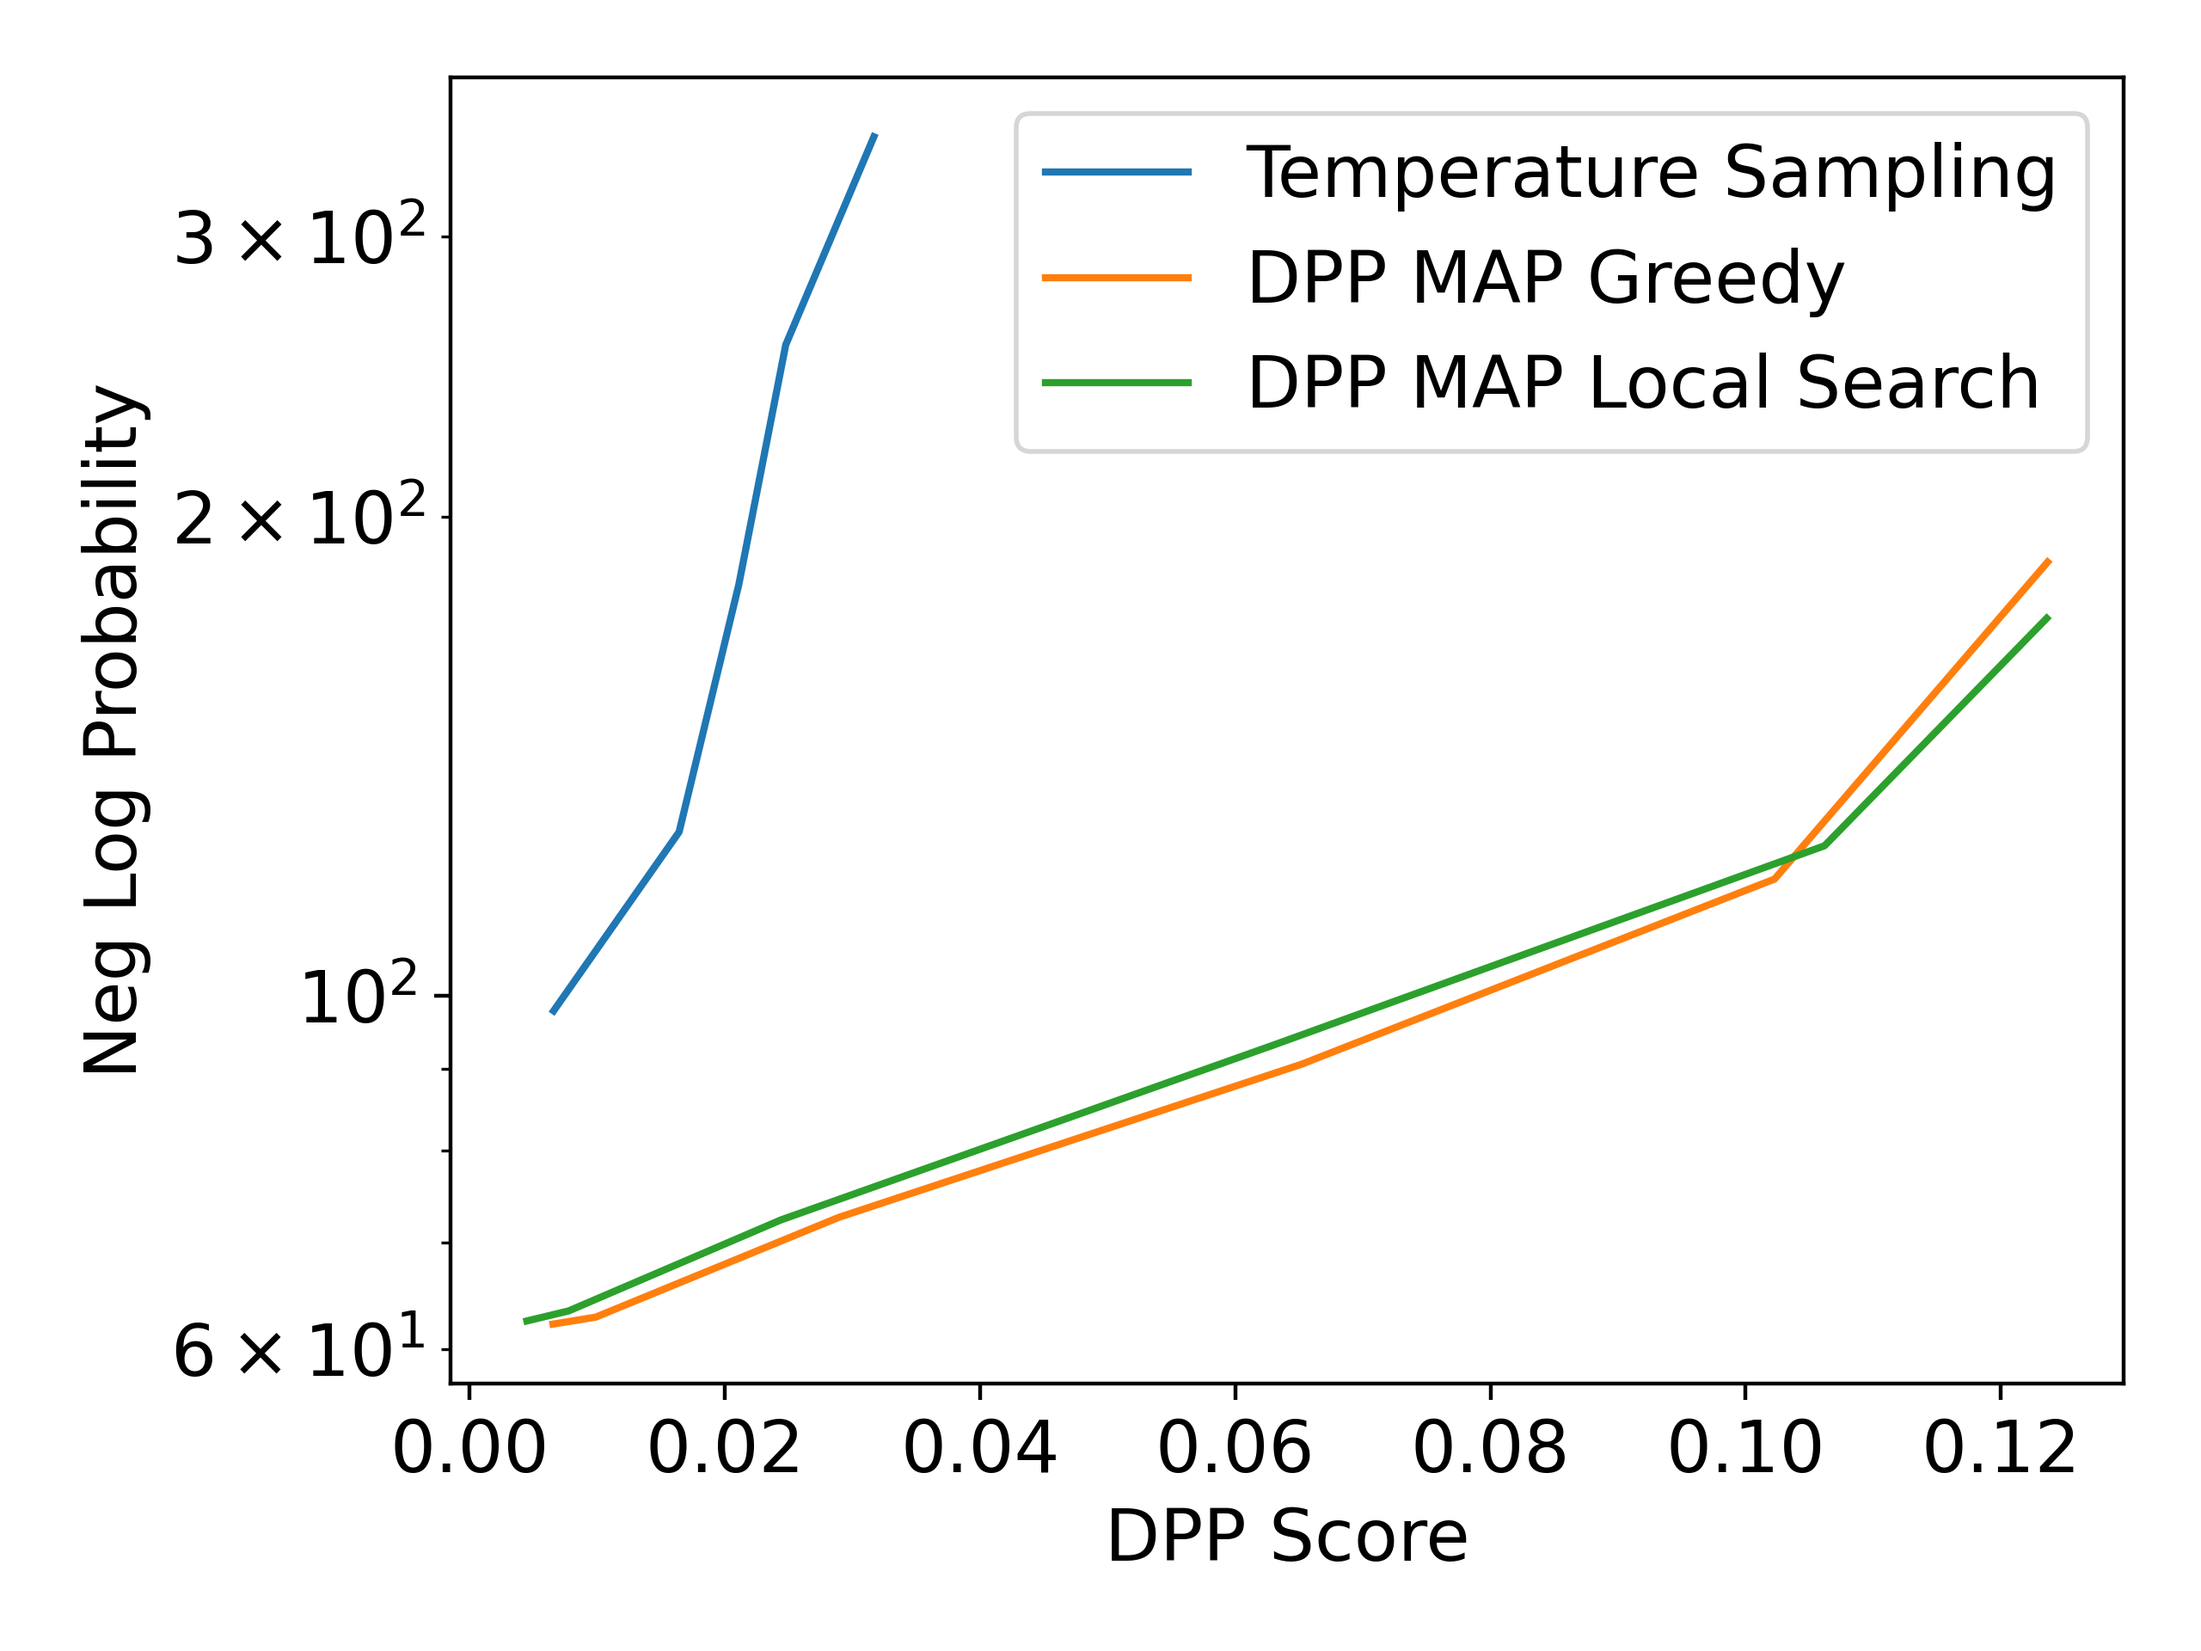
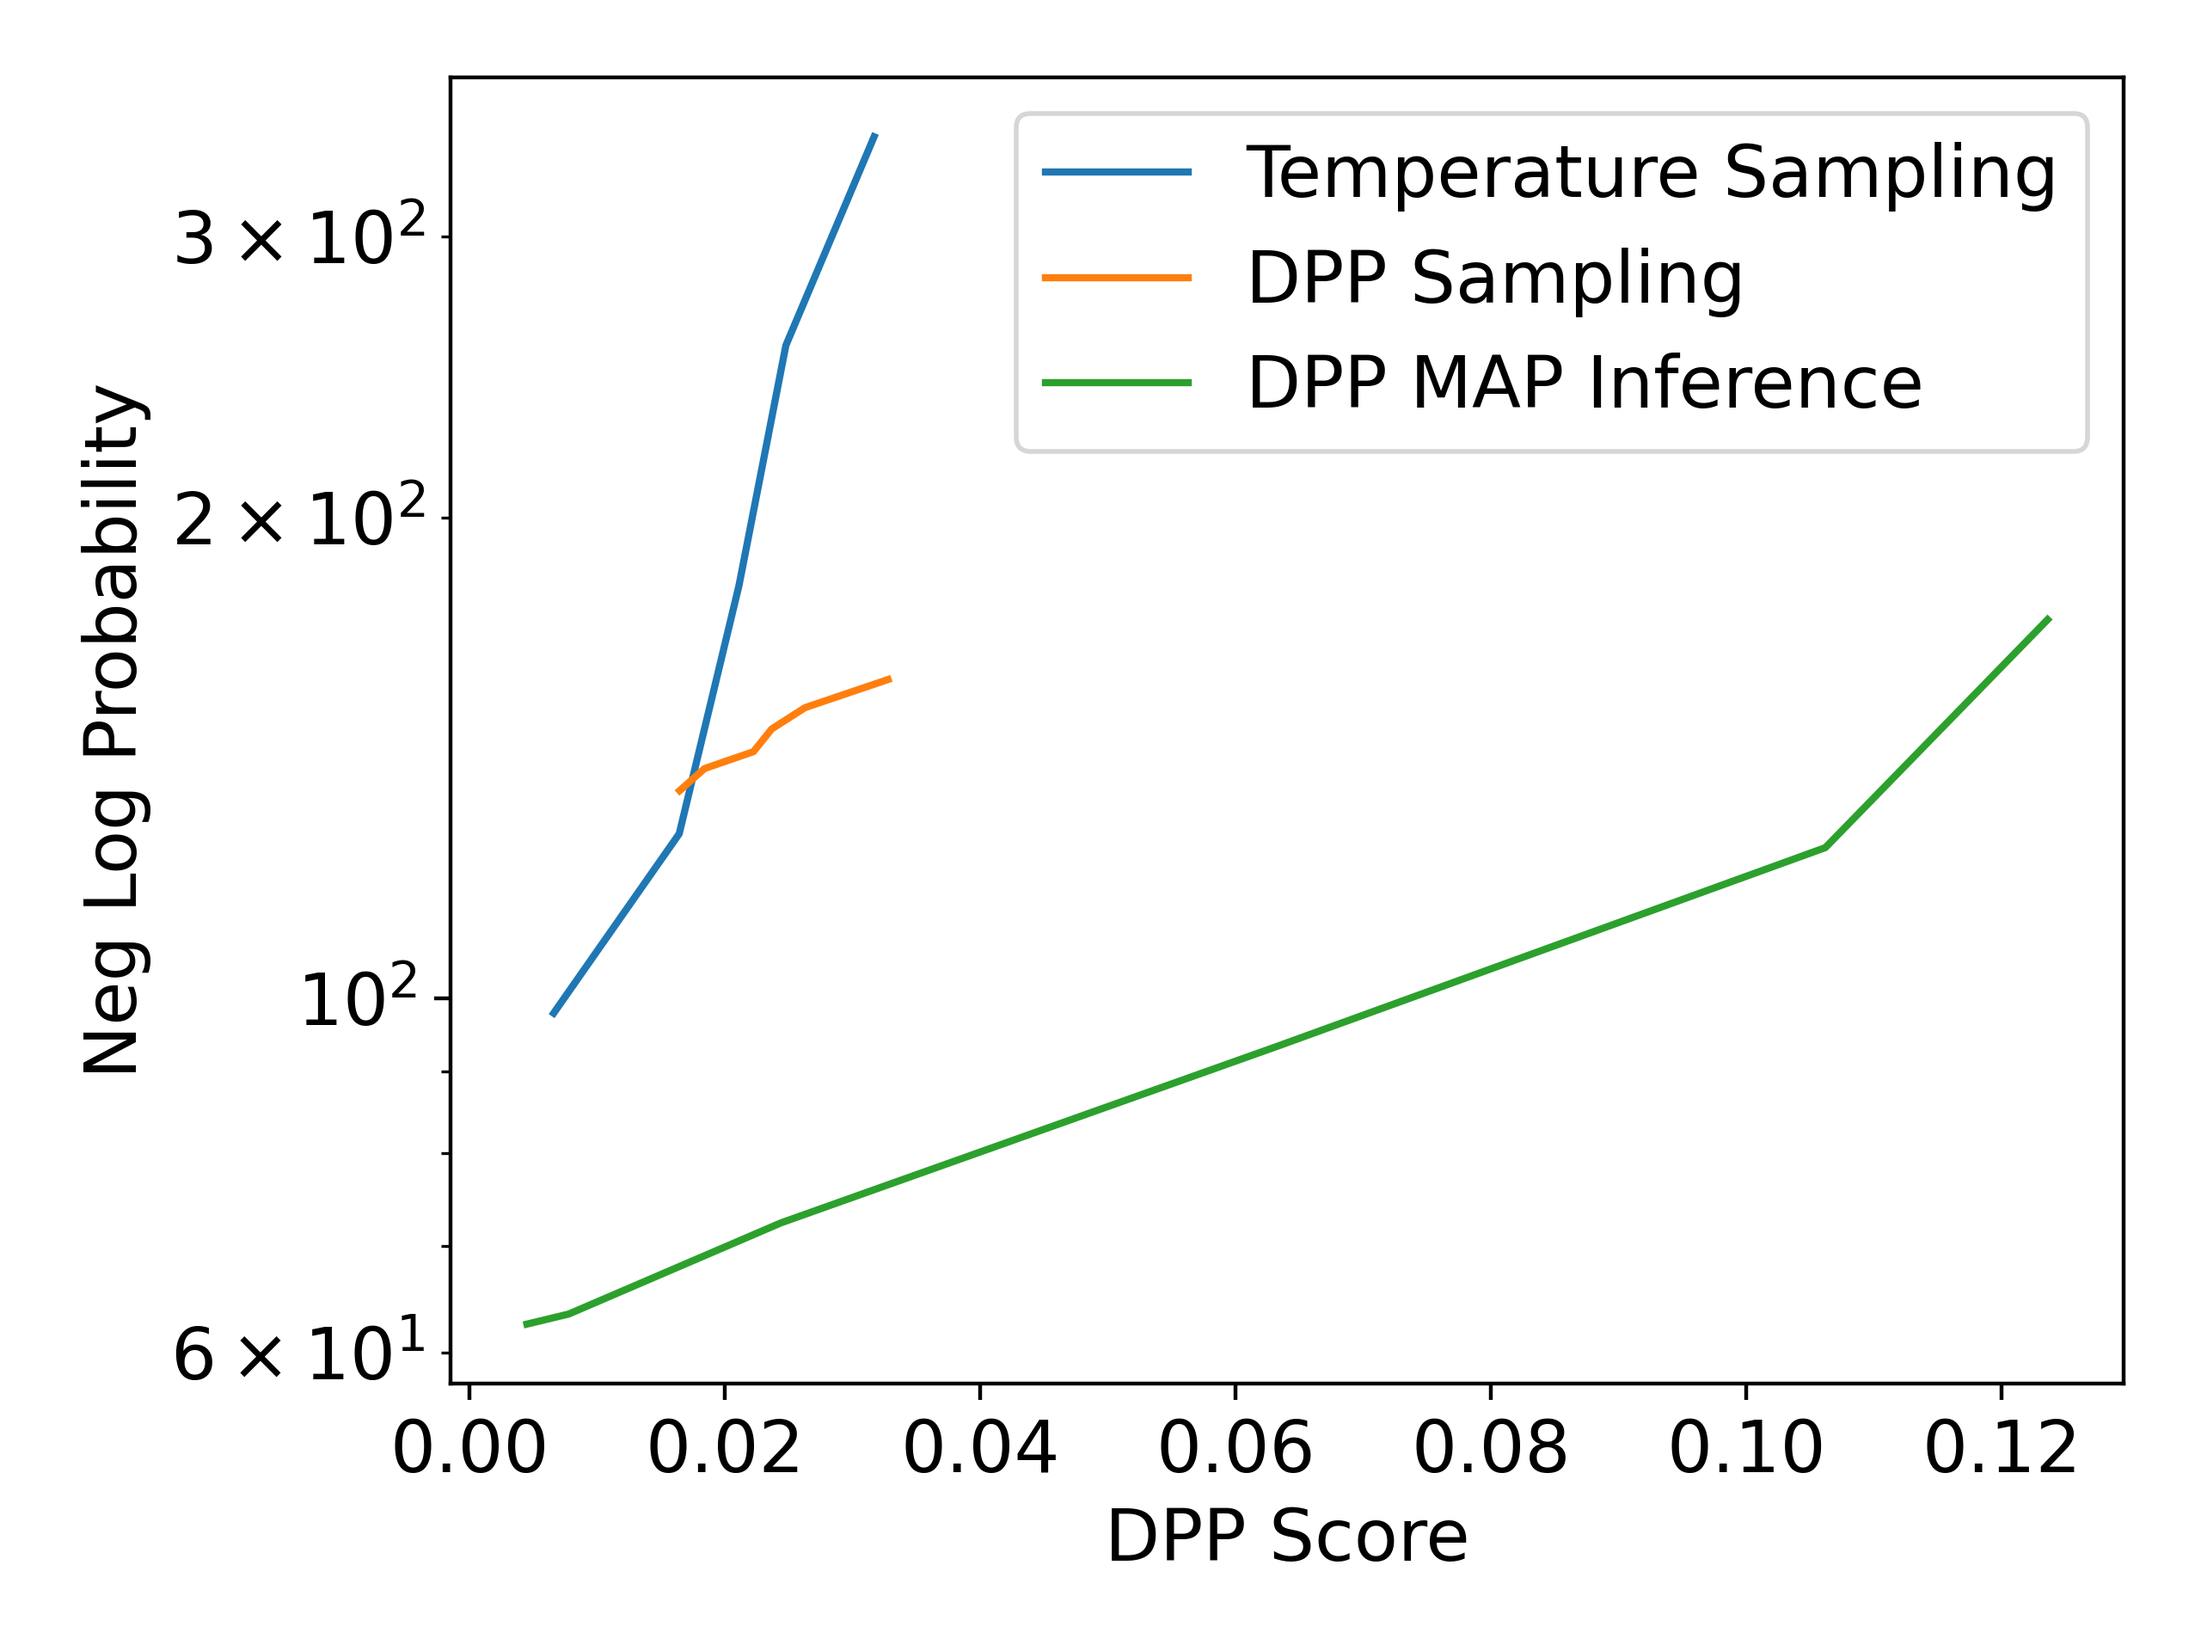
update

diff --git a/run_exp.py b/run_exp.py
@@ -124,15 +124,13 @@ def dpp_decoding_fn(wdir, dataset, language_model, embedding_model, args, method
 method_map = {
     'naive': naive_decoding_fn,
     'dpp_sampling': dpp_decoding_fn,
-    'dpp_map_greedy': partial(dpp_decoding_fn, method='map_greedy'),
     'dpp_map_ls': partial(dpp_decoding_fn, method='map_ls'),
 }
 
 method_name_map = {
     'naive': 'Temperature Sampling',
     'dpp_sampling': 'DPP Sampling',
-    'dpp_map_greedy': 'DPP MAP Greedy',
-    'dpp_map_ls': 'DPP MAP Local Search',
+    'dpp_map_ls': 'DPP MAP Inference',
 }
 
 
@@ -142,7 +140,7 @@ class Args:
     k: int = 5
     num_seeds: int = 5
     run_id: int = 0
-    methods: tuple[str] = ('naive', 'dpp_sampling', 'dpp_map_greedy', 'dpp_map_ls')
+    methods: tuple[str] = ('naive', 'dpp_sampling', 'dpp_map_ls')
     rerun: bool = False
     seed: int = 42
 
